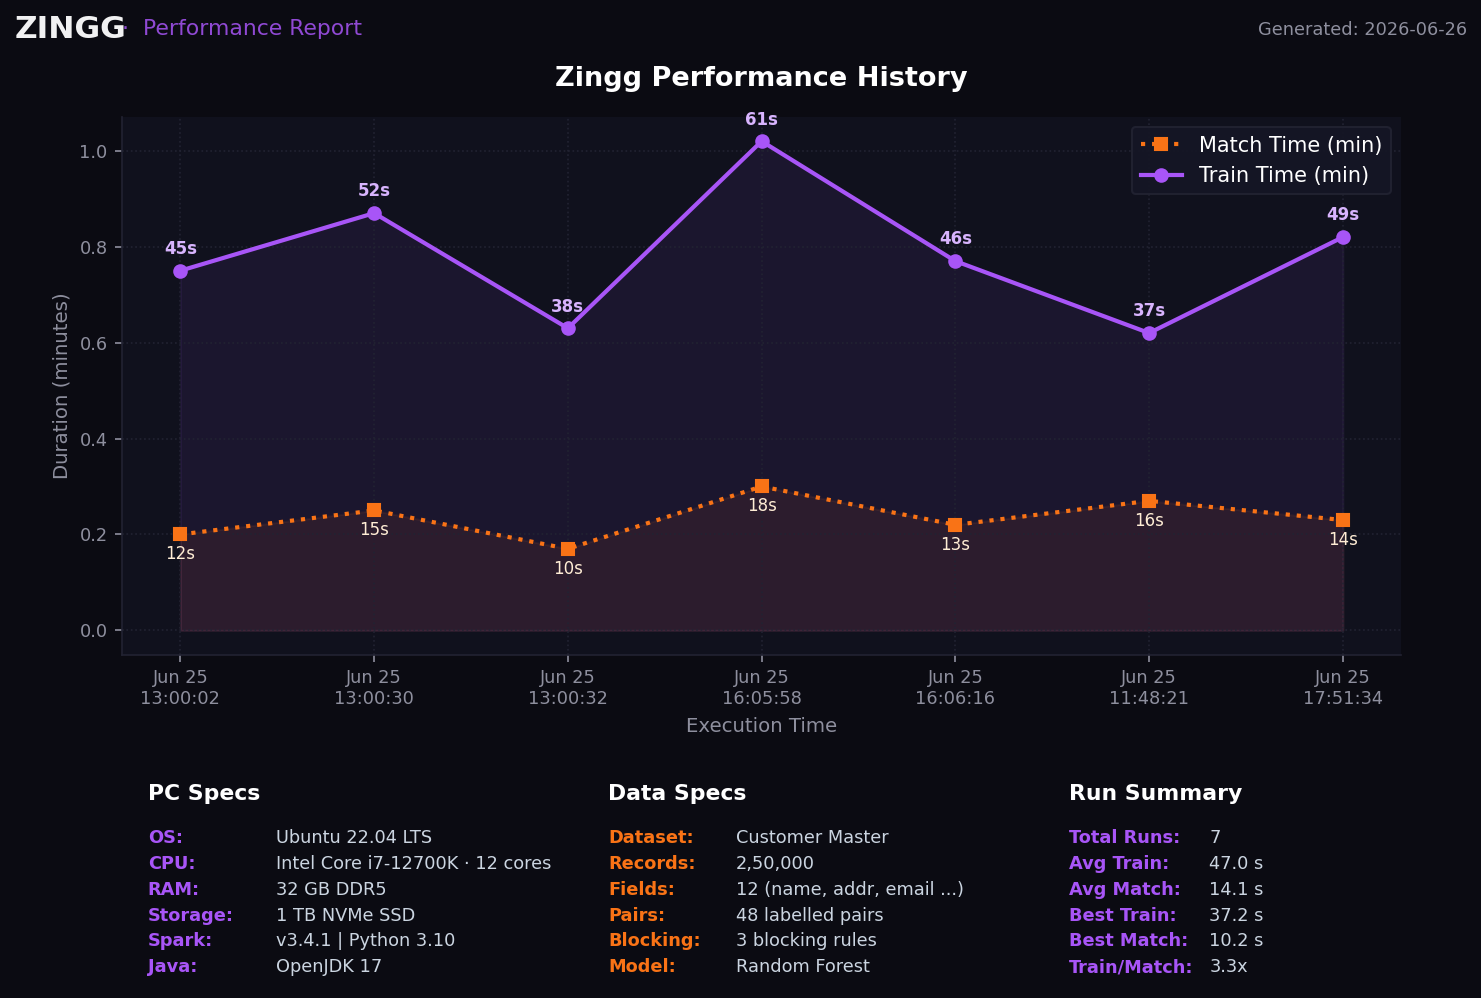
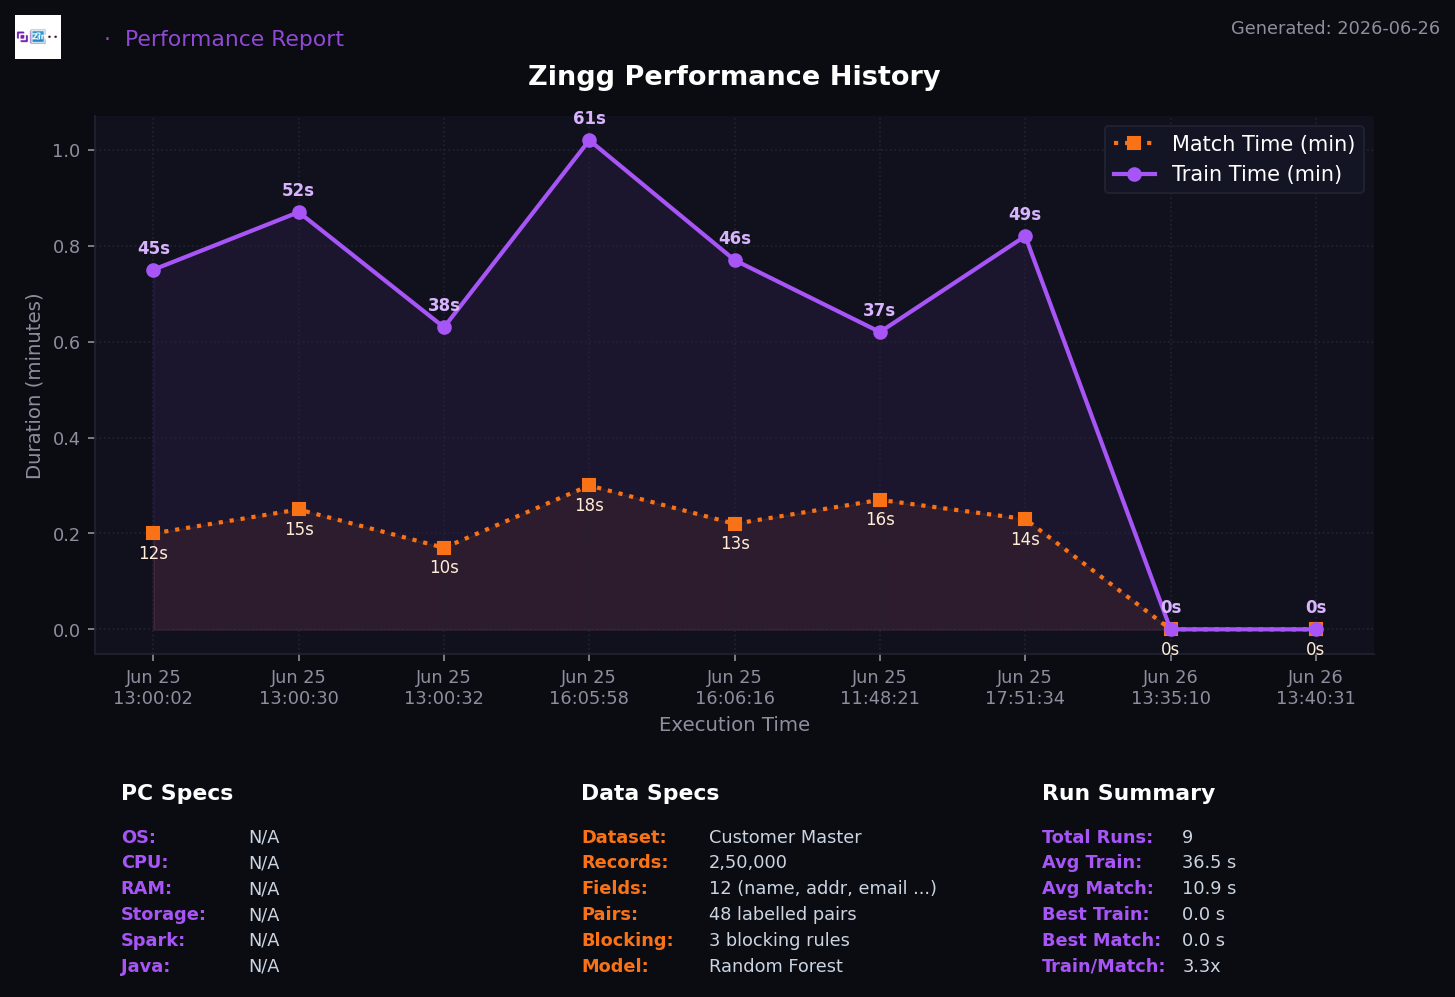
feat: integrate automatic hardware specs detection in runner script

diff --git a/perfTestRunner.py b/perfTestRunner.py
@@ -4,6 +4,9 @@ import json
 import csv
 import time
 import os
+import platform
+import shutil
+import multiprocessing
 from datetime import date, datetime
 
 now = datetime.now()
@@ -18,6 +21,52 @@ INPUT_FILE = os.environ.get("INPUT")
 print(f"INPUT_FILE = {INPUT_FILE}")
 PERFORMANCE_THRESHOLD = 1.05  # 5% increase in test time
 WINDOW_THRESHOLD = 10 #set 10 minutes window threshold
+
+def detect_pc_specs():
+    specs = {}
+    specs["OS"] = f"{platform.system()} {platform.release()}"
+    try:
+        cpu = platform.processor() or platform.machine()
+        cores = multiprocessing.cpu_count()
+        specs["CPU"] = f"{cpu} · {cores} cores"
+    except Exception:
+        specs["CPU"] = "N/A"
+    try:
+        if platform.system() == "Darwin":
+            r = subprocess.run(["sysctl", "-n", "hw.memsize"], capture_output=True, text=True, timeout=5)
+            specs["RAM"] = f"{int(r.stdout.strip()) / (1024**3):.0f} GB"
+        elif platform.system() == "Linux":
+            with open("/proc/meminfo") as f:
+                for line in f:
+                    if line.startswith("MemTotal"):
+                        specs["RAM"] = f"{int(line.split()[1]) / (1024**2):.0f} GB"
+                        break
+        else:
+            specs["RAM"] = "N/A"
+    except Exception:
+        specs["RAM"] = "N/A"
+    try:
+        total, _, _ = shutil.disk_usage("/")
+        specs["Storage"] = f"{total / (1024**3):.0f} GB"
+    except Exception:
+        specs["Storage"] = "N/A"
+    try:
+        r = subprocess.run(["spark-submit", "--version"], capture_output=True, text=True, timeout=10)
+        for line in (r.stderr + r.stdout).splitlines():
+            if "version" in line.lower():
+                specs["Spark"] = line.strip()
+                break
+        else:
+            specs["Spark"] = "N/A"
+    except Exception:
+        specs["Spark"] = "N/A"
+    try:
+        r = subprocess.run(["java", "-version"], capture_output=True, text=True, timeout=10)
+        first_line = (r.stderr + r.stdout).splitlines()[0]
+        specs["Java"] = first_line.replace('"', '').strip()
+    except Exception:
+        specs["Java"] = "N/A"
+    return specs
 
 def load_test_config():
     if not os.path.exists(INPUT_FILE):
@@ -122,9 +171,20 @@ def write_on_start():
         "date": str(date.today()),
         "time": current_time,
         "test": testName,
-        "results": {}
+        "results": {},
+        "pcSpecs": detect_pc_specs(),
+        "dataSpecs": config.get("dataSpecs", {})
     }
     return test_data
+
+def save_json_report(test_data):
+    """Write full report (results + specs) to reportFile."""
+    if not reportFile:
+        return
+    os.makedirs(os.path.dirname(os.path.abspath(reportFile)), exist_ok=True)
+    with open(reportFile, "w") as f:
+        json.dump(test_data, f, indent=4)
+    print(f"JSON report written to {reportFile}")
 
 def perform_window_validation(new_time, prev_time):
     print(f"Comparing new_time: {new_time} with prev_time: {prev_time}")
@@ -198,6 +258,7 @@ def perform_load_test():
 
     # Save results after successful test execution
     save_results(test_data)
+    save_json_report(test_data)
 
     if test_fail:
         exit(1)
